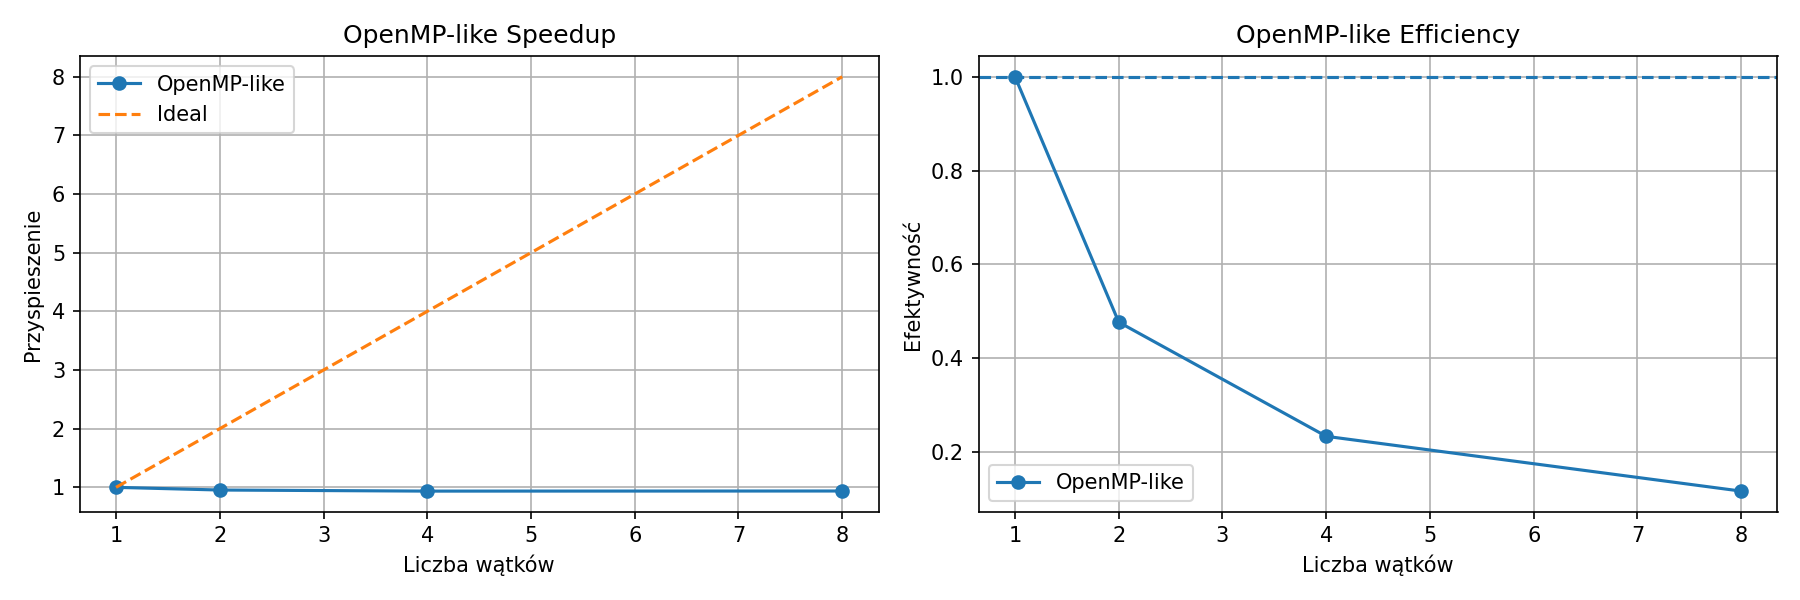
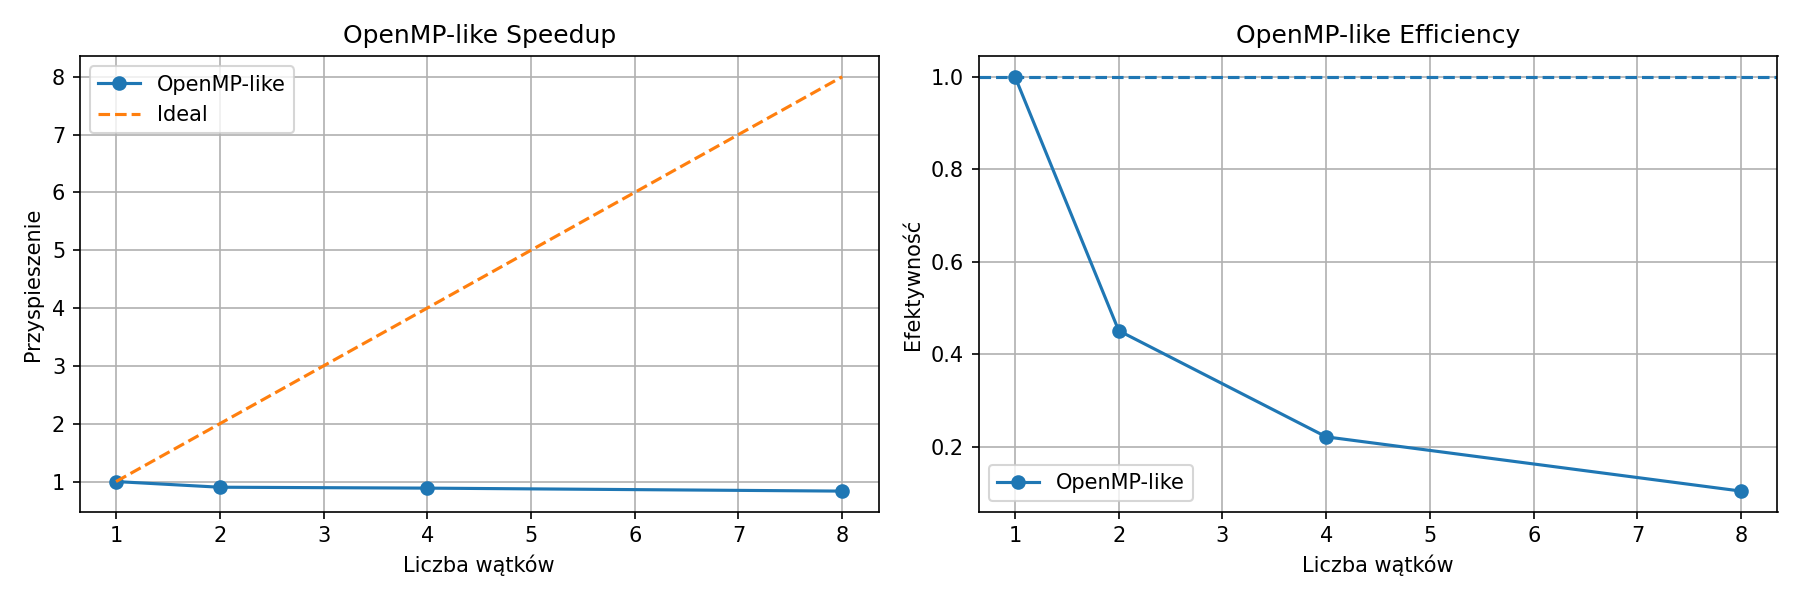
add code

diff --git a/experiments_openmp_mpi.py b/experiments_openmp_mpi.py
@@ -1,22 +1,10 @@
-from config import DEFAULT_INPUT_LOG, OPENMP_WORKERS
-from parallel.mpi.runner import run_mpi_token_count
-from parallel.openmp.benchmark import benchmark_openmp
+import argparse
 
-
-def load_lines(path: str) -> list[str]:
-    with open(path, "r", encoding="utf-8") as handle:
-        return handle.readlines()
-
-
-def run_openmp_experiment(lines: list[str]) -> dict:
-    return benchmark_openmp(lines, workers=OPENMP_WORKERS)
-
-
-def run_mpi_experiment(lines: list[str]) -> dict:
-    return run_mpi_token_count(lines)
-
+from best_comparison import main as run_best_comparison
 
 if __name__ == "__main__":
-    data = load_lines(str(DEFAULT_INPUT_LOG))
-    print("OpenMP-like:", run_openmp_experiment(data))
-    print("MPI:", run_mpi_experiment(data))
+    parser = argparse.ArgumentParser(
+        description="Deprecated entrypoint. Use best_comparison.py options."
+    )
+    parser.parse_args()
+    run_best_comparison()

diff --git a/processing/__init__.py b/processing/__init__.py
@@ -1,3 +1,2 @@
 from .analyzer import analyze_log_file
-from .counters import phrase_counts
 from .statistics import top_error_hours, total_matched_ratio, total_parsed_ratio

diff --git a/README.md b/README.md
@@ -40,7 +40,8 @@ mpiexec -n 4 python main.py --input data/raw/Hadoop_2k.log --parallel-mode mpi
 ## Wykresy przyspieszenia i efektywności
 
 Notebook: `experiments.ipynb` (dodane komórki benchmarkowe)  
-Skrypt: `experiments_openmp_mpi.py`
+Skrypt porównawczy: `best_comparison.py`  
+Alias (deprecated): `experiments_openmp_mpi.py`
 
 ## Technologie
 